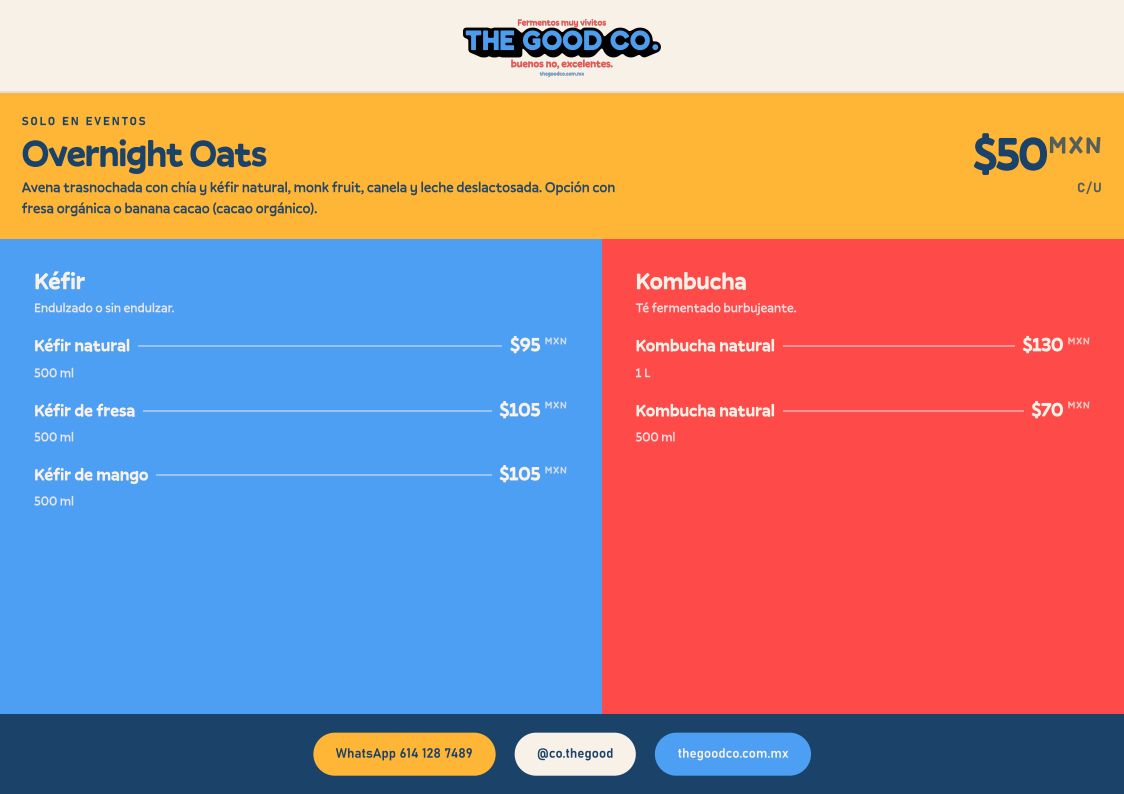
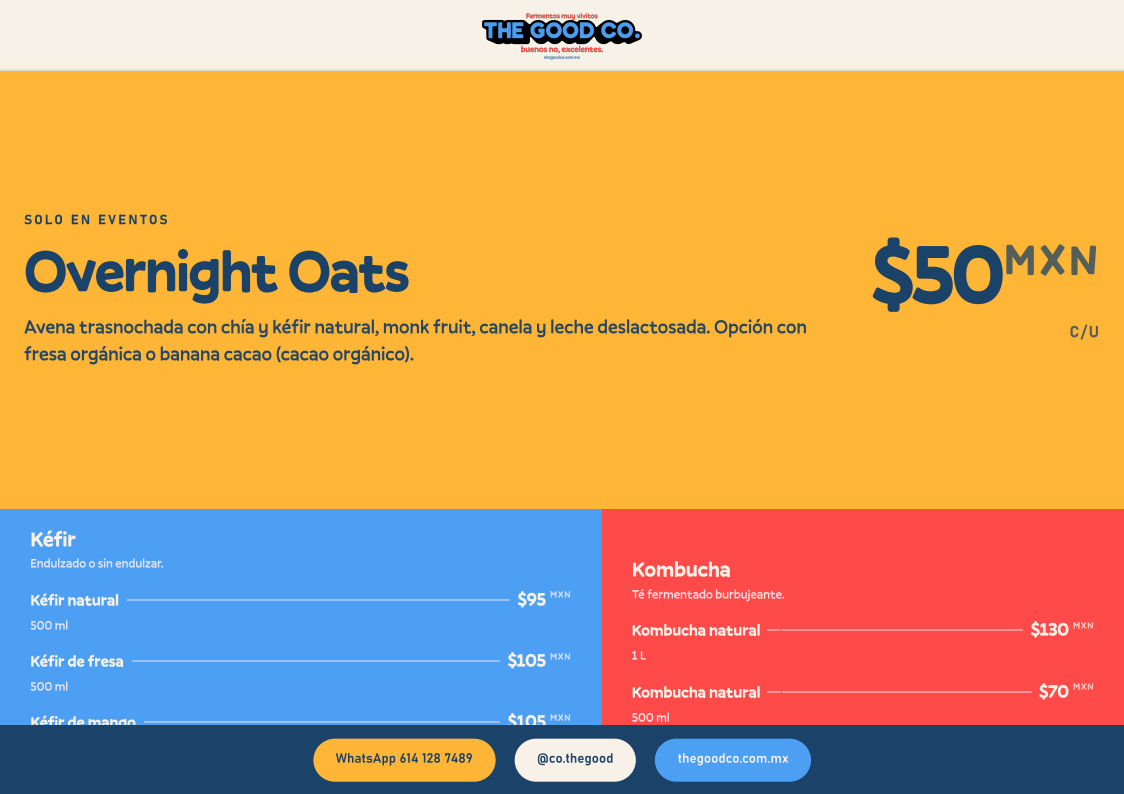
Enlarge Overnight Oats block and fill unused yellow space
Give oats more vertical share on the A4 sheet, bump hero type/price
sizes, and tighten logo/footer so colored sections leave less empty area.

diff --git a/web/components/menu/menu-board.css b/web/components/menu/menu-board.css
@@ -48,37 +48,61 @@
 }
 
 .menu-board--capture .menu-hero {
-  padding: 5mm 8mm 4mm;
+  padding: 3.5mm 8mm 2.5mm;
   flex: 0 0 auto;
 }
 
 .menu-board--capture .menu-hero__logo-wrap {
-  max-width: 52mm;
+  max-width: 42mm;
 }
 
 .menu-board--capture .menu-section--featured {
-  padding: 8mm 10mm;
-  flex: 0 0 auto;
+  padding: 8mm 12mm;
+  flex: 1.55 1 0;
+  display: flex;
+  align-items: stretch;
+}
+
+.menu-board--capture .menu-featured__layout {
+  height: 100%;
+  align-content: center;
+  align-items: center;
+}
+
+.menu-board--capture .menu-grid {
+  flex: 0.85 1 0;
 }
 
 .menu-board--capture .menu-section {
-  padding: 8mm 9mm;
+  padding: 5mm 8mm;
 }
 
 .menu-board--capture .menu-section__title--hero {
-  font-size: 28pt;
+  font-size: 44pt;
 }
 
 .menu-board--capture .menu-item__price--hero {
-  font-size: 36pt;
+  font-size: 64pt;
 }
 
 .menu-board--capture .menu-section__blurb--featured {
-  font-size: 11pt;
+  font-size: 14.5pt;
+  max-width: none;
+  margin-top: 4mm;
+}
+
+.menu-board--capture .menu-section__eyebrow {
+  font-size: 10pt;
+  margin-bottom: 3mm;
+}
+
+.menu-board--capture .menu-item__meta--hero {
+  font-size: 12pt;
+  margin-top: 2mm;
 }
 
 .menu-board--capture .menu-foot {
-  padding: 5mm 8mm;
+  padding: 3.5mm 8mm;
   flex: 0 0 auto;
 }
 
@@ -148,15 +172,16 @@
 }
 
 .menu-hero {
-  padding: 0.65rem 1.1rem 0.5rem;
+  padding: 0.45rem 1rem 0.35rem;
   text-align: center;
   background: var(--menu-cream);
   border-bottom: 2px solid color-mix(in oklch, var(--menu-deep) 10%, transparent);
+  flex: 0 0 auto;
 }
 
 .menu-hero__logo-wrap {
   margin: 0 auto;
-  max-width: 14rem;
+  max-width: 11rem;
 }
 
 .menu-hero__logo {
@@ -175,7 +200,8 @@
 .menu-grid {
   display: grid;
   gap: 0;
-  flex: 1;
+  flex: 0.9 1 0;
+  min-height: 0;
   align-items: stretch;
 }
 
@@ -192,11 +218,16 @@
 
 .menu-grid > .menu-section {
   min-height: 100%;
+  display: flex;
+  flex-direction: column;
+  justify-content: center;
 }
 
 .menu-section--featured {
-  flex: 0 0 auto;
+  flex: 1.55 1 0;
   min-height: 0;
+  display: flex;
+  align-items: stretch;
 }
 
 .menu-board--ready:not(.menu-board--capture) .menu-section {
@@ -236,18 +267,21 @@
 }
 
 .menu-section.menu-section--featured {
-  padding: 1.25rem 1.35rem 1.3rem;
+  padding: 1.35rem 1.5rem 1.4rem;
 }
 
 .menu-featured__layout {
   display: grid;
-  gap: 0.75rem 1.5rem;
+  gap: 1rem 2.25rem;
   align-items: center;
+  align-content: center;
+  width: 100%;
+  height: 100%;
 }
 
 @media (min-width: 700px) {
   .menu-featured__layout {
-    grid-template-columns: 1fr auto;
+    grid-template-columns: 1.25fr auto;
   }
 }
 
@@ -257,7 +291,8 @@
   align-items: flex-end;
   justify-content: center;
   text-align: right;
-  min-width: 7.5rem;
+  min-width: 9rem;
+  height: 100%;
 }
 
 .menu-section--orange {
@@ -313,7 +348,7 @@
 }
 
 .menu-section__title--hero {
-  font-size: clamp(2rem, 4vw, 2.75rem);
+  font-size: clamp(2.6rem, 5.5vw, 3.8rem);
   letter-spacing: -0.02em;
   line-height: 0.95;
 }
@@ -327,9 +362,9 @@
 }
 
 .menu-section__blurb--featured {
-  font-size: clamp(0.9rem, 1.5vw, 1.05rem);
+  font-size: clamp(1.05rem, 2vw, 1.3rem);
   line-height: 1.4;
-  max-width: 38rem;
+  max-width: none;
   opacity: 0.95;
 }
 
@@ -387,7 +422,7 @@
 }
 
 .menu-item__price--hero {
-  font-size: clamp(2.4rem, 5vw, 3.5rem);
+  font-size: clamp(3.4rem, 7.5vw, 5.2rem);
   line-height: 0.9;
   letter-spacing: -0.04em;
   color: var(--menu-deep);
@@ -410,9 +445,10 @@
   justify-content: center;
   align-items: center;
   gap: 0.55rem 0.75rem;
-  padding: 0.85rem 1rem 0.95rem;
+  padding: 0.65rem 1rem 0.7rem;
   background: var(--menu-deep);
   color: var(--menu-cream);
+  flex: 0 0 auto;
 }
 
 .menu-foot__pill {
@@ -503,71 +539,85 @@
   }
 
   .menu-hero {
-    padding: 5mm 8mm 4mm;
+    padding: 3.5mm 8mm 2.5mm;
   }
 
   .menu-hero__logo-wrap {
-    max-width: 52mm;
+    max-width: 42mm;
   }
 
   .menu-section {
     opacity: 1 !important;
     transform: none !important;
     animation: none !important;
-    padding: 8mm 9mm;
+    padding: 6mm 8mm;
   }
 
   .menu-section--featured {
-    padding: 8mm 10mm;
+    padding: 8mm 12mm;
+    flex: 1.55 1 0 !important;
+    display: flex;
+    align-items: stretch;
   }
 
   .menu-featured__layout {
-    grid-template-columns: 1fr auto;
+    grid-template-columns: 1.25fr auto;
+    width: 100%;
+    height: 100%;
+    align-items: center;
+    align-content: center;
   }
 
   .menu-section__title--hero {
-    font-size: 28pt;
+    font-size: 44pt;
   }
 
   .menu-item__price--hero {
-    font-size: 36pt;
+    font-size: 64pt;
   }
 
   .menu-section__blurb--featured {
-    font-size: 11pt;
+    font-size: 14.5pt;
+    max-width: none;
+    margin-top: 4mm;
   }
 
   .menu-item__meta--hero {
-    font-size: 9pt;
+    font-size: 12pt;
+  }
+
+  .menu-section__eyebrow {
+    font-size: 10pt;
+    margin-bottom: 3mm;
   }
 
   .menu-section__title {
-    font-size: 18pt;
+    font-size: 16pt;
   }
 
   .menu-item__name {
-    font-size: 13pt;
+    font-size: 12pt;
   }
 
   .menu-item__price {
-    font-size: 15pt;
+    font-size: 14pt;
   }
 
   .menu-section__blurb,
   .menu-item__meta {
-    font-size: 10pt;
+    font-size: 9.5pt;
   }
 
   .menu-grid {
     grid-template-columns: 1.15fr 1fr;
-    flex: 1 1 auto;
+    flex: 0.85 1 0 !important;
   }
 
   .menu-foot {
     flex-direction: row;
     flex-wrap: wrap;
     justify-content: center;
-    padding: 5mm 8mm;
+    padding: 3.5mm 8mm;
     gap: 3mm 5mm;
   }
 
